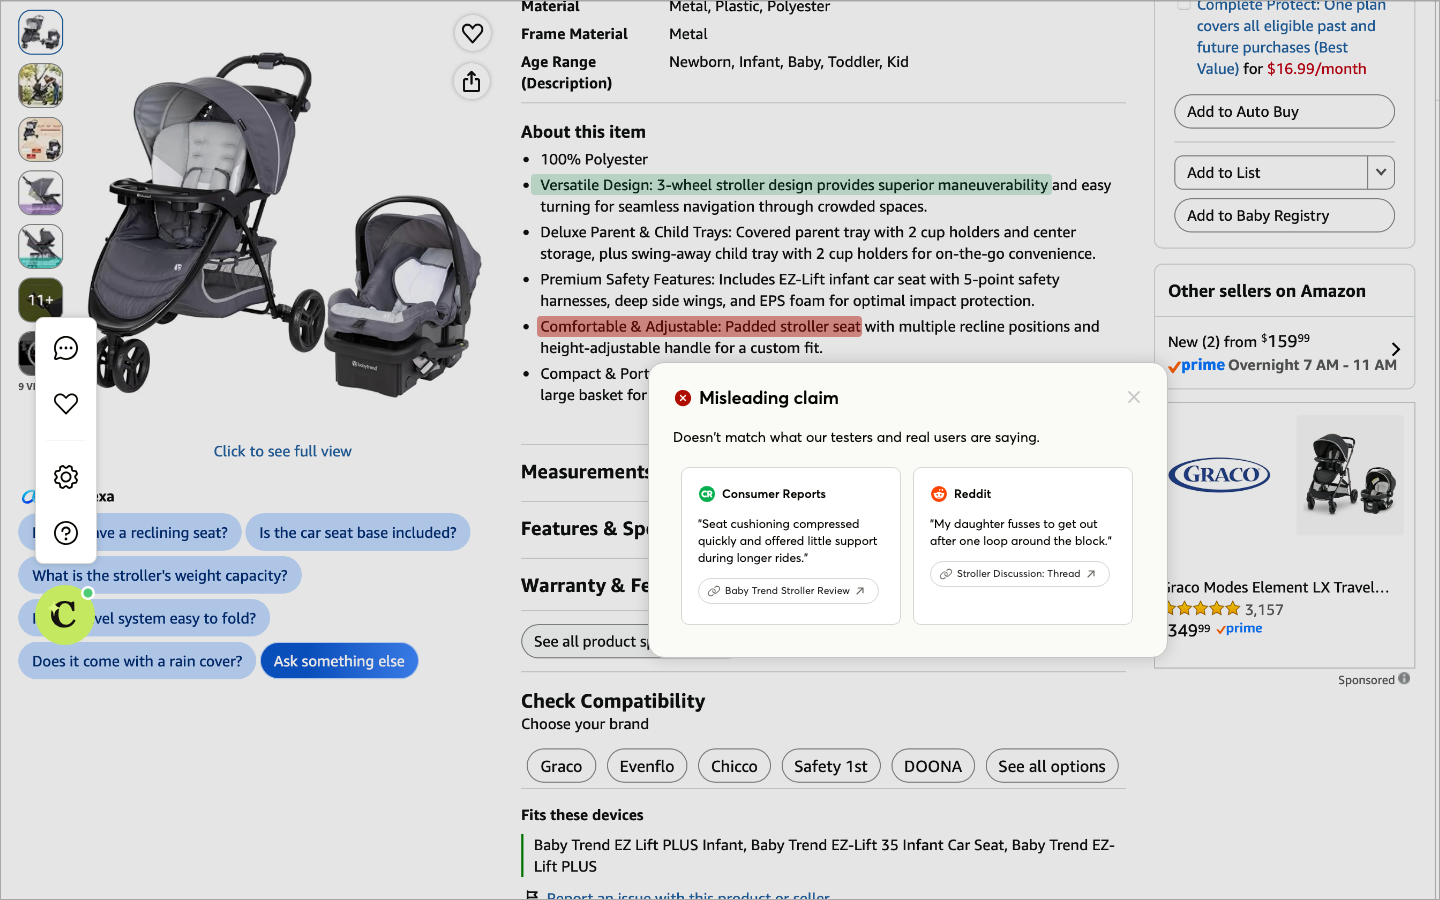
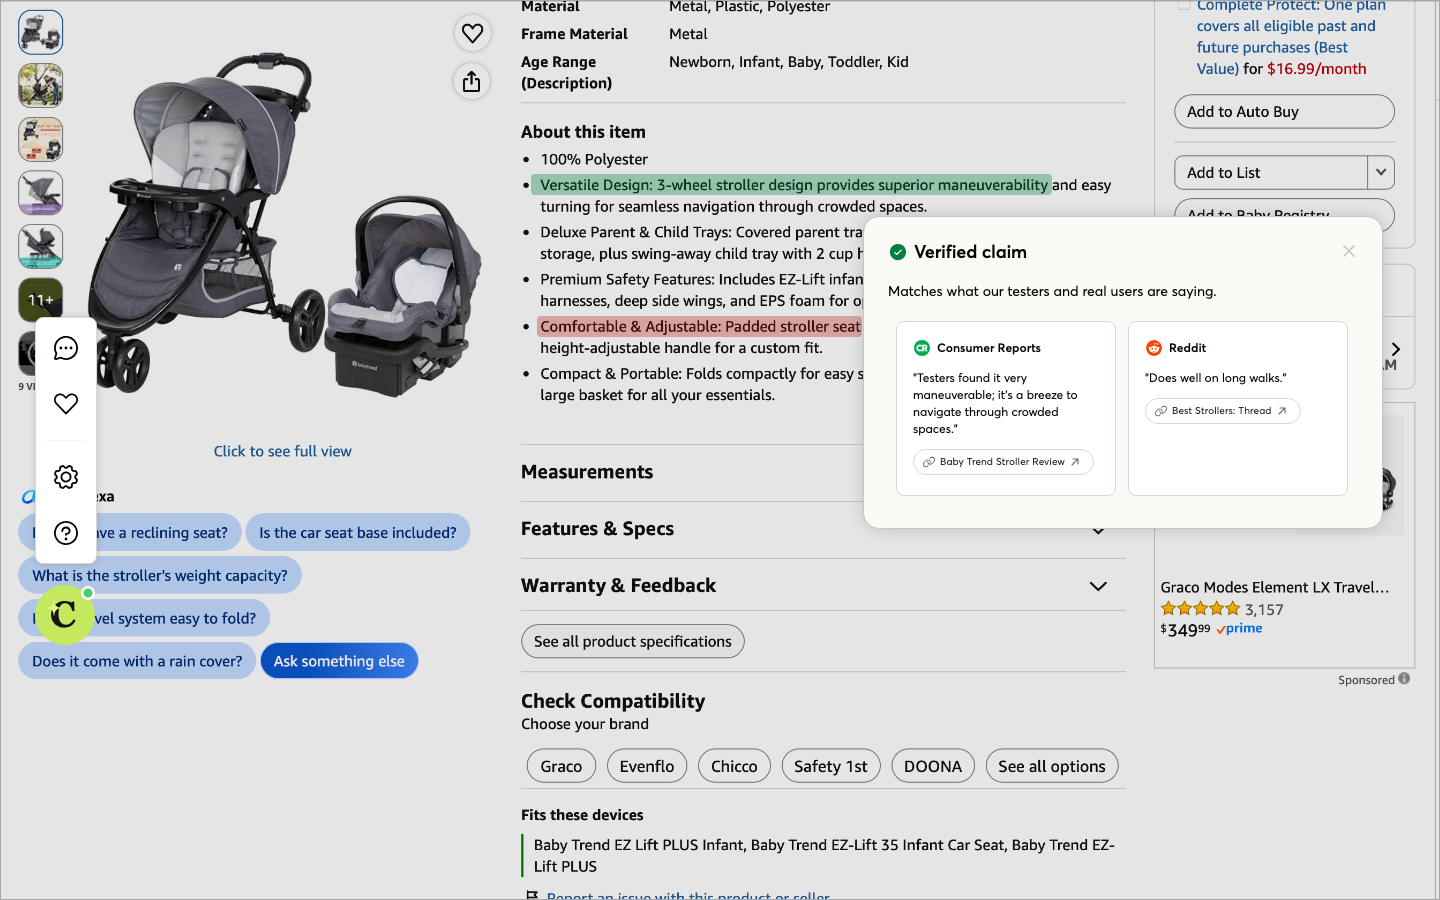
feat: add verified card, hover/focus interaction on #connie
- Add VerifiedCard component with Figma-exact copy and solid green
  CheckCircle icon (downloaded from Figma 16:6860)
- Green highlight now opens verified card at left:862 top:215
- Red highlight opens misleading card at left:647 top:361
- Both highlights open on hover or keyboard focus; close on mouse
  leave after 300ms delay (cancelled if mouse enters the card),
  on X button click, or on Escape — only one card open at a time
- Stage starts with no card open
- Add .cs-card-anchor--verified for the verified card position
- Make green highlight interactive (cursor:pointer, hover opacity)
- Add icon-check-circle.svg (solid green #00803E filled path)
- Update connie-check.png: verified card open at 1440×900

Changed region(s): [[0.375, 0.2489, 0.9688, 0.7467], [0.3438, 0.1867, 0.75, 0.2178], [0.8125, 0.2178, 0.9688, 0.28]]

diff --git a/src/examples/ConnieStage.tsx b/src/examples/ConnieStage.tsx
@@ -1,10 +1,11 @@
-import { useEffect, useState } from "react";
+import { useEffect, useRef, useState } from "react";
 import bgScreenshot from "./connie-stage/bg-screenshot.png";
 import cButtonBg from "./connie-stage/c-button-bg.svg";
 import cButtonDot from "./connie-stage/c-button-dot.svg";
 import cButtonStar from "./connie-stage/c-button-star.svg";
 import iconArrowUpRight from "./connie-stage/icon-arrow-up-right.svg";
 import iconChat from "./connie-stage/icon-chat.svg";
+import iconCheckCircle from "./connie-stage/icon-check-circle.svg";
 import iconGear from "./connie-stage/icon-gear.svg";
 import iconHeart from "./connie-stage/icon-heart.svg";
 import iconLine from "./connie-stage/icon-line.svg";
@@ -16,66 +17,40 @@ import logoCr from "./connie-stage/logo-cr.png";
 import logoReddit from "./connie-stage/logo-reddit.png";
 import "./connie-stage.css";
 
-// ─── Figma-exact annotation card (node 16:6796) ──────────────────────────────
-// Uses downloaded Figma assets; matches layout, spacing, and typography exactly
-function AnnotationCard({ onClose }: { onClose: () => void }) {
+// ─── Misleading annotation card (node 16:6796) ───────────────────────────────
+function MisleadingCard({ onClose }: { onClose: () => void }) {
   return (
-    /* Outer card: bg secondary #fafaf7, border #c5c5c5 0.5px, radius 16, shadow */
     <div className="cs-card" role="region" aria-label='Claim check: "Comfortable &amp; Adjustable: Padded stroller seat"'>
-      {/* Header row: icon + title + close */}
       <div className="cs-card-header">
         <div className="cs-card-verdict-row">
-          {/* Solid-filled XCircle — Figma asset, fill #AE0D00 */}
           <img src={iconXCircle} width={20} height={20} alt="Misleading" className="cs-verdict-icon" />
-          {/* Title 4: Semibold 18/22, -0.25 tracking */}
           <span className="cs-verdict-title">Misleading claim</span>
         </div>
-        {/* Close — aria-label, medium touch target */}
         <button className="cs-close-btn" onClick={onClose} aria-label="Close claim check">
           <img src={iconX} width={18} height={18} alt="" aria-hidden />
         </button>
       </div>
-
-      {/* Subtitle: Utility 1, 14/20 */}
       <p className="cs-subtitle">Doesn't match what our testers and real users are saying.</p>
-
-      {/* Evidence area: 2 cards side by side — sources always labeled, never blended */}
       <div className="cs-evidence-row">
-        {/* CR evidence card */}
         <div className="cs-evidence-card">
           <div className="cs-source-row">
             <img src={logoCr} width={16} height={16} alt="" className="cs-source-avatar" aria-hidden />
-            {/* Source name: Utility 2, Semibold 12/16 */}
             <span className="cs-source-name">Consumer Reports</span>
           </div>
-          {/* Quote: Utility 3, Regular 12/17 */}
           <p className="cs-quote">"Seat cushioning compressed quickly and offered little support during longer rides."</p>
-          {/* Source chip: pill with Link + label + ArrowUpRight */}
-          <a
-            href="https://www.consumerreports.org"
-            target="_blank"
-            rel="noopener noreferrer"
-            className="cs-source-chip"
-          >
+          <a href="https://www.consumerreports.org" target="_blank" rel="noopener noreferrer" className="cs-source-chip">
             <img src={iconLink} width={14} height={14} alt="" aria-hidden />
             <span>Baby Trend Stroller Review</span>
             <img src={iconArrowUpRight} width={12} height={12} alt="" aria-hidden />
           </a>
         </div>
-
-        {/* Community evidence card */}
         <div className="cs-evidence-card">
           <div className="cs-source-row">
             <img src={logoReddit} width={16} height={16} alt="" className="cs-source-avatar" aria-hidden />
             <span className="cs-source-name">Reddit</span>
           </div>
           <p className="cs-quote">"My daughter fusses to get out after one loop around the block."</p>
-          <a
-            href="https://www.reddit.com/r/Strollers"
-            target="_blank"
-            rel="noopener noreferrer"
-            className="cs-source-chip"
-          >
+          <a href="https://www.reddit.com/r/Strollers" target="_blank" rel="noopener noreferrer" className="cs-source-chip">
             <img src={iconLink} width={14} height={14} alt="" aria-hidden />
             <span>Stroller Discussion: Thread</span>
             <img src={iconArrowUpRight} width={12} height={12} alt="" aria-hidden />
@@ -86,11 +61,56 @@ function AnnotationCard({ onClose }: { onClose: () => void }) {
   );
 }
 
+// ─── Verified annotation card (node 16:6860) ─────────────────────────────────
+function VerifiedCard({ onClose }: { onClose: () => void }) {
+  return (
+    <div className="cs-card" role="region" aria-label='Claim check: "Versatile Design"'>
+      <div className="cs-card-header">
+        <div className="cs-card-verdict-row">
+          <img src={iconCheckCircle} width={20} height={20} alt="Verified" className="cs-verdict-icon" />
+          <span className="cs-verdict-title">Verified claim</span>
+        </div>
+        <button className="cs-close-btn" onClick={onClose} aria-label="Close claim check">
+          <img src={iconX} width={18} height={18} alt="" aria-hidden />
+        </button>
+      </div>
+      <p className="cs-subtitle">Matches what our testers and real users are saying.</p>
+      <div className="cs-evidence-row">
+        <div className="cs-evidence-card">
+          <div className="cs-source-row">
+            <img src={logoCr} width={16} height={16} alt="" className="cs-source-avatar" aria-hidden />
+            <span className="cs-source-name">Consumer Reports</span>
+          </div>
+          <p className="cs-quote">"Testers found it very maneuverable; it's a breeze to navigate through crowded spaces."</p>
+          <a href="https://www.consumerreports.org" target="_blank" rel="noopener noreferrer" className="cs-source-chip">
+            <img src={iconLink} width={14} height={14} alt="" aria-hidden />
+            <span>Baby Trend Stroller Review</span>
+            <img src={iconArrowUpRight} width={12} height={12} alt="" aria-hidden />
+          </a>
+        </div>
+        <div className="cs-evidence-card">
+          <div className="cs-source-row">
+            <img src={logoReddit} width={16} height={16} alt="" className="cs-source-avatar" aria-hidden />
+            <span className="cs-source-name">Reddit</span>
+          </div>
+          <p className="cs-quote">"Does well on long walks."</p>
+          <a href="https://www.reddit.com/r/Strollers" target="_blank" rel="noopener noreferrer" className="cs-source-chip">
+            <img src={iconLink} width={14} height={14} alt="" aria-hidden />
+            <span>Best Strollers: Thread</span>
+            <img src={iconArrowUpRight} width={12} height={12} alt="" aria-hidden />
+          </a>
+        </div>
+      </div>
+    </div>
+  );
+}
+
 // ─── Stage ────────────────────────────────────────────────────────────────────
-// 1440×900 fixed canvas matching Figma frame 16:6784
+// 1440×900 fixed canvas matching Figma frame 16:6784 / 16:6848
 export function ConnieStage() {
-  const [cardOpen, setCardOpen] = useState(false);
+  const [openCard, setOpenCard] = useState<"misleading" | "verified" | null>(null);
   const [scale, setScale] = useState(1);
+  const closeTimer = useRef<ReturnType<typeof setTimeout> | null>(null);
 
   useEffect(() => {
     const compute = () => {
@@ -102,71 +122,110 @@ export function ConnieStage() {
     return () => window.removeEventListener("resize", compute);
   }, []);
 
+  useEffect(() => {
+    const onKey = (e: KeyboardEvent) => { if (e.key === "Escape") close(); };
+    window.addEventListener("keydown", onKey);
+    return () => window.removeEventListener("keydown", onKey);
+  }, []);
+
+  const cancelClose = () => {
+    if (closeTimer.current) clearTimeout(closeTimer.current);
+  };
+  const scheduleClose = () => {
+    cancelClose();
+    closeTimer.current = setTimeout(() => setOpenCard(null), 300);
+  };
+  const open = (card: "misleading" | "verified") => {
+    cancelClose();
+    setOpenCard(card);
+  };
+  const close = () => {
+    cancelClose();
+    setOpenCard(null);
+  };
+
   const scaledW = Math.round(1440 * scale);
   const scaledH = Math.round(900 * scale);
 
   return (
     <div className="connie-stage-wrapper">
-      {/* Size box collapses to the visual footprint so flexbox can center it */}
       <div style={{ width: scaledW, height: scaledH, flexShrink: 0 }}>
-      <div
-        className="connie-stage"
-        style={{ transform: `scale(${scale})`, transformOrigin: "top left" }}
-        aria-label="Connie — inline claim annotation demo"
-      >
-
-        {/* Layer 1: Amazon page background screenshot + dim scrim (node 16:6785) */}
-        <div className="cs-bg" aria-hidden>
-          <img src={bgScreenshot} className="cs-bg-img" alt="" />
-          <div className="cs-bg-scrim" />
-        </div>
-
-        {/* Layer 2: Green highlight — "Versatile Design" (verified, decorative) */}
-        {/* Figma: left 530, top 173, w 521, h 21, #00803e opacity 0.2 */}
         <div
-          className="cs-highlight cs-highlight--green"
-          aria-hidden
-        />
-
-        {/* Layer 3: Red highlight — "Comfortable & Adjustable" (misleading, clickable) */}
-        {/* Figma: left 536, top 315, w 325, h 21, #ae0d00 opacity 0.3 */}
-        <button
-          className="cs-highlight cs-highlight--red"
-          onClick={() => setCardOpen(true)}
-          aria-label='Open claim check for "Comfortable &amp; Adjustable: Padded stroller seat"'
-          aria-expanded={cardOpen}
-        />
-
-        {/* Layer 4: NaviBar — left toolbar (node 16:4374) */}
-        {/* Figma: left 34, top 316 */}
-        <div className="cs-navibar" aria-hidden>
-          <div className="cs-navibar-group">
-            <img src={iconChat} width={40} height={40} alt="" />
-            <img src={iconHeart} width={40} height={40} alt="" />
+          className="connie-stage"
+          style={{ transform: `scale(${scale})`, transformOrigin: "top left" }}
+          aria-label="Connie — inline claim annotation demo"
+        >
+          {/* Layer 1: Amazon page background screenshot + dim scrim */}
+          <div className="cs-bg" aria-hidden>
+            <img src={bgScreenshot} className="cs-bg-img" alt="" />
+            <div className="cs-bg-scrim" />
           </div>
-          <img src={iconLine} width={40} height={0} alt="" className="cs-navibar-divider" />
-          <div className="cs-navibar-group">
-            <img src={iconGear} width={40} height={40} alt="" />
-            <img src={iconQuestion} width={40} height={40} alt="" />
+
+          {/* Layer 2: Green highlight — "Versatile Design" (verified) */}
+          {/* Figma: left 530, top 173, w 521, h 21 */}
+          <button
+            className="cs-highlight cs-highlight--green"
+            onMouseEnter={() => open("verified")}
+            onMouseLeave={scheduleClose}
+            onFocus={() => open("verified")}
+            aria-label='Open claim check for "Versatile Design"'
+            aria-expanded={openCard === "verified"}
+          />
+
+          {/* Layer 3: Red highlight — "Comfortable & Adjustable" (misleading) */}
+          {/* Figma: left 536, top 315, w 325, h 21 */}
+          <button
+            className="cs-highlight cs-highlight--red"
+            onMouseEnter={() => open("misleading")}
+            onMouseLeave={scheduleClose}
+            onFocus={() => open("misleading")}
+            aria-label='Open claim check for "Comfortable &amp; Adjustable: Padded stroller seat"'
+            aria-expanded={openCard === "misleading"}
+          />
+
+          {/* Layer 4: NaviBar */}
+          <div className="cs-navibar" aria-hidden>
+            <div className="cs-navibar-group">
+              <img src={iconChat} width={40} height={40} alt="" />
+              <img src={iconHeart} width={40} height={40} alt="" />
+            </div>
+            <img src={iconLine} width={40} height={0} alt="" className="cs-navibar-divider" />
+            <div className="cs-navibar-group">
+              <img src={iconGear} width={40} height={40} alt="" />
+              <img src={iconQuestion} width={40} height={40} alt="" />
+            </div>
           </div>
+
+          {/* Layer 5: Connie C button */}
+          <div className="cs-c-button" aria-hidden>
+            <img src={cButtonBg} width={60} height={60} alt="" className="cs-c-bg" />
+            <span className="cs-c-letter">C</span>
+            <img src={cButtonStar} width={16} height={16} alt="" className="cs-c-star" />
+            <img src={cButtonDot} width={14} height={14} alt="" className="cs-c-dot" />
+          </div>
+
+          {/* Layer 6: Verified card — Figma: left 862, top 215 */}
+          {openCard === "verified" && (
+            <div
+              className="cs-card-anchor cs-card-anchor--verified"
+              onMouseEnter={cancelClose}
+              onMouseLeave={scheduleClose}
+            >
+              <VerifiedCard onClose={close} />
+            </div>
+          )}
+
+          {/* Layer 7: Misleading card — Figma: left 647, top 361 */}
+          {openCard === "misleading" && (
+            <div
+              className="cs-card-anchor"
+              onMouseEnter={cancelClose}
+              onMouseLeave={scheduleClose}
+            >
+              <MisleadingCard onClose={close} />
+            </div>
+          )}
         </div>
-
-        {/* Layer 5: Connie C button (node 16:6789) */}
-        {/* Figma: left 34, top 584, 60×60 */}
-        <div className="cs-c-button" aria-hidden>
-          <img src={cButtonBg} width={60} height={60} alt="" className="cs-c-bg" />
-          <span className="cs-c-letter">C</span>
-          <img src={cButtonStar} width={16} height={16} alt="" className="cs-c-star" />
-          <img src={cButtonDot} width={14} height={14} alt="" className="cs-c-dot" />
-        </div>
-
-        {/* Layer 6: Annotation card — Figma: left 647, top 361 */}
-        {cardOpen && (
-          <div className="cs-card-anchor">
-            <AnnotationCard onClose={() => setCardOpen(false)} />
-          </div>
-        )}
-      </div>
       </div>
     </div>
   );

diff --git a/src/examples/connie-stage.css b/src/examples/connie-stage.css
@@ -68,8 +68,18 @@
   width: 521px;
   background: #00803e;
   opacity: 0.2;
-  cursor: default;
-  pointer-events: none;
+  cursor: pointer;
+  transition: opacity 0.15s ease;
+}
+
+.cs-highlight--green:hover {
+  opacity: 0.35;
+}
+
+.cs-highlight--green:focus-visible {
+  outline: 2px solid #00803e;
+  outline-offset: 2px;
+  opacity: 0.35;
 }
 
 /* Misleading red highlight — "Comfortable & Adjustable…" */
@@ -172,12 +182,18 @@
 }
 
 /* ─── Card anchor ─────────────────────────────────────────────── */
-/* Figma: left 647, top 361 */
+/* Misleading card — Figma: left 647, top 361 */
 .cs-card-anchor {
   position: absolute;
   left: 647px;
   top: 361px;
   width: 520px;
+}
+
+/* Verified card — Figma: left 862, top 215 */
+.cs-card-anchor--verified {
+  left: 862px;
+  top: 215px;
 }
 
 /* ─── Annotation card ─────────────────────────────────────────── */
